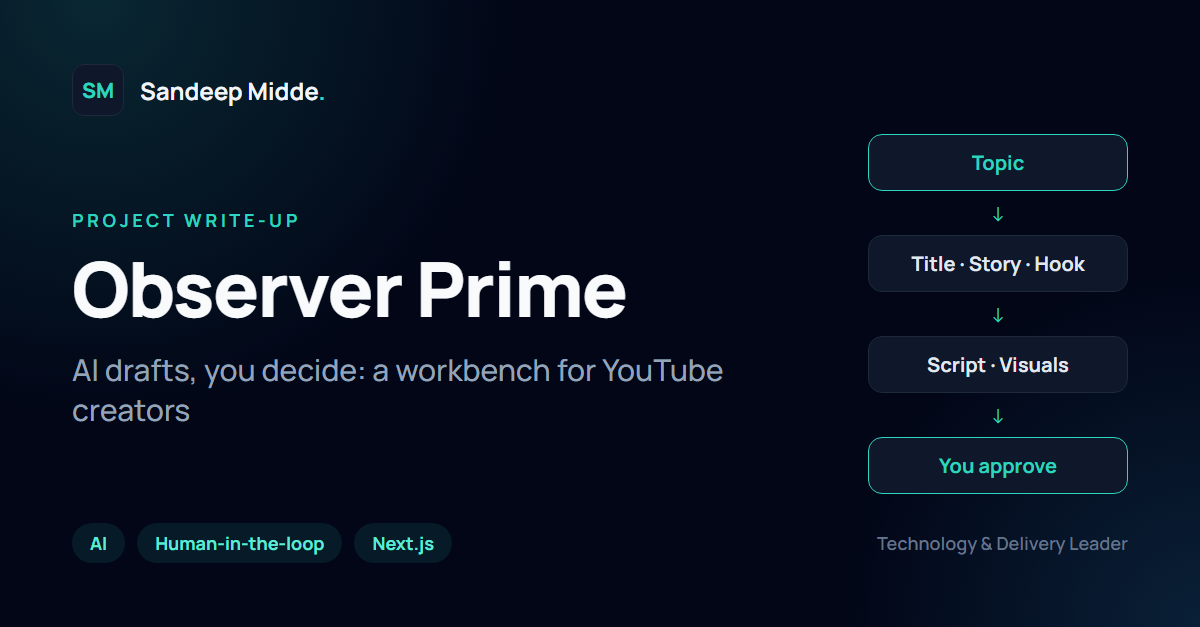
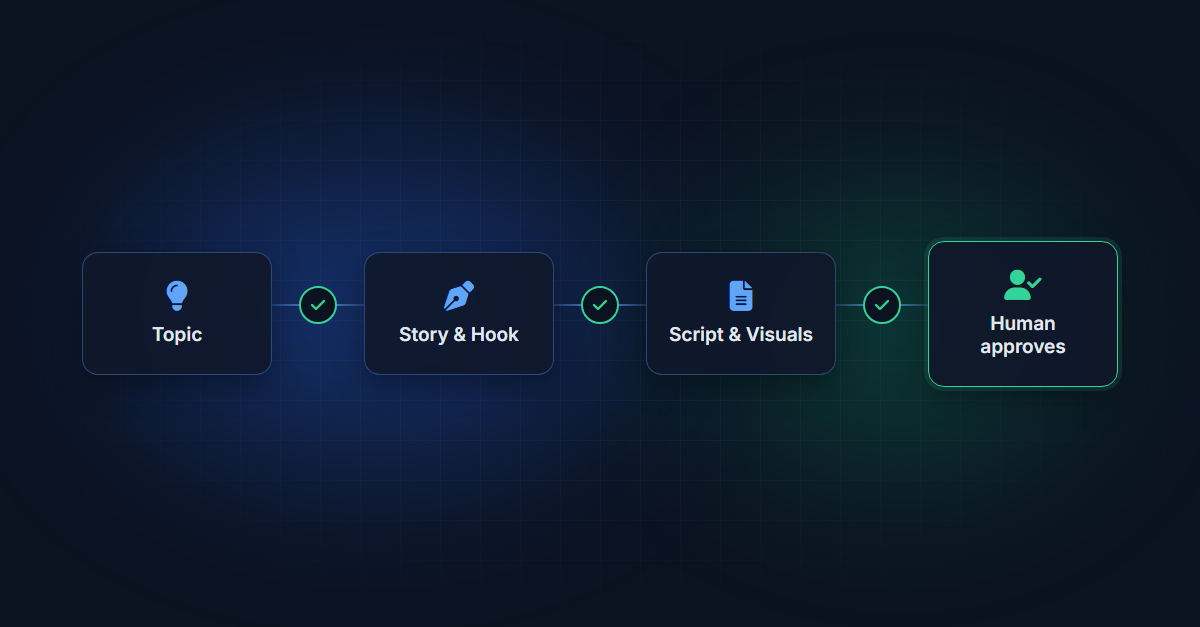
Homepage: executive hero and career language, Principal AI Architect chapter, stack chips, text-free project covers
Covers are now visual-only (no name, byline or tags) so the card text
does the reading. Also used as each post's link-preview image.

diff --git a/themed-executive.html b/themed-executive.html
@@ -787,7 +787,7 @@
             Two decades leading technology and delivery for mission-critical finance platforms, from enterprise ERP programs for global clients to governing a <strong>$2.5T+ AUM</strong> financial ecosystem in regulated banking.
           </p>
           <p class="hero-sub">
-            The focus stays constant. Align architecture, budgets, and cross-functional teams to protect uptime and cut total cost of ownership, and now bring the same rigor to hands-on, evaluation-backed GenAI product architecture.
+            Specializing in enterprise platform modernization and resilient GenAI architecture, aligning architecture, budgets and cross-functional teams to protect uptime and cut total cost of ownership.
           </p>
           <div class="hero-actions">
             <a href="#impact" class="btn btn-primary">Review portfolio <i class="fas fa-arrow-down" aria-hidden="true"></i></a>
@@ -946,12 +946,13 @@
         <a class="proj-card anim" href="posts/krishna-uvaca/">
           <div class="proj-cover"><img src="blog/krishna-uvaca/cover.png" alt="Krishna Uvaca cover" loading="lazy" width="1200" height="627"></div>
           <div class="proj-body">
-            <p class="proj-kind">Live RAG application</p>
+            <p class="proj-kind">Live RAG sandbox</p>
             <h3>Krishna Uvaca</h3>
-            <p>Conversational RAG application that answers only from retrieved source text, cites the verse behind every answer and keeps context across the conversation. Built to test how far strict grounding can contain hallucination where accuracy matters.</p>
+            <p>A live validation sandbox for grounded, multi-turn retrieval. It benchmarks how far strict context grounding and source citation can contain hallucination on dense, high-complexity text, with memory carried across turns.</p>
             <p class="proj-proof"><i class="fas fa-check" aria-hidden="true"></i> Verse-level citations on every answer</p>
             <p class="proj-proof"><i class="fas fa-check" aria-hidden="true"></i> 88% accuracy across 500 test conversations</p>
-            <span class="proj-link">Read the case study <i class="fas fa-arrow-right" aria-hidden="true"></i></span>
+            <div class="proj-stack"><span>Dify</span><span>Make.com</span><span>Airtable</span><span>Softr</span><span>FastAPI</span></div>
+            <span class="proj-link">Explore the architecture <i class="fas fa-arrow-right" aria-hidden="true"></i></span>
           </div>
         </a>
         <a class="proj-card anim" href="posts/observer-prime/">
@@ -962,8 +963,8 @@
             <p>Agentic workflow engine with provider-agnostic LLM orchestration and resumable, versioned steps. A human-in-the-loop approval gate sits between every stage, so the AI drafts and a person decides.</p>
             <p class="proj-proof"><i class="fas fa-check" aria-hidden="true"></i> Central orchestrator owns every workflow rule</p>
             <p class="proj-proof"><i class="fas fa-check" aria-hidden="true"></i> 36 automated tests on a zero-cost mock provider</p>
-            <div class="proj-stack"><span>Next.js 15</span><span>React 19</span><span>TypeScript</span><span>Vitest</span></div>
-            <span class="proj-link">Read the case study <i class="fas fa-arrow-right" aria-hidden="true"></i></span>
+            <div class="proj-stack"><span>Claude Code</span><span>Next.js 15</span><span>React 19</span><span>TypeScript</span><span>Vitest</span></div>
+            <span class="proj-link">Explore the architecture <i class="fas fa-arrow-right" aria-hidden="true"></i></span>
           </div>
         </a>
         <a class="proj-card anim" href="posts/project-elara/">
@@ -974,8 +975,8 @@
             <p>Knowledge platform that turns unstructured files in a user's own Google Drive into structured, searchable knowledge. A two-tier design uses AI only where understanding is needed and plain code for retrieval, keeping cost predictable.</p>
             <p class="proj-proof"><i class="fas fa-check" aria-hidden="true"></i> No vector database or agent framework needed</p>
             <p class="proj-proof"><i class="fas fa-check" aria-hidden="true"></i> Verified with real sign-in and live AI calls</p>
-            <div class="proj-stack"><span>Next.js 16</span><span>TypeScript</span><span>Google Drive API</span></div>
-            <span class="proj-link">Read the case study <i class="fas fa-arrow-right" aria-hidden="true"></i></span>
+            <div class="proj-stack"><span>Claude Code</span><span>Next.js 16</span><span>TypeScript</span><span>Google Drive API</span></div>
+            <span class="proj-link">Explore the architecture <i class="fas fa-arrow-right" aria-hidden="true"></i></span>
           </div>
         </a>
       </div>
@@ -1020,25 +1021,25 @@
       <div class="section-header">
         <p class="section-label">Career</p>
         <h2 class="section-title">Two decades of<br><em>compounding</em> depth.</h2>
-        <p class="section-sub">From PeopleSoft Finance consultant to VP of a $2.5T+ AUM finance platform to independent AI builder, each chapter built the judgment for the next.</p>
+        <p class="section-sub">From PeopleSoft Finance consultant to VP of a $2.5T+ AUM finance platform to independent AI architect, each chapter built the judgment for the next.</p>
       </div>
       <div class="exp-list">
         <article class="exp-item anim">
           <div class="exp-meta">
             <div class="exp-date">Jul 2026 to Present</div>
             <div class="exp-co">Independent</div>
-            <div class="exp-loc">AI / ML product development</div>
+            <div class="exp-loc">AI R&amp;D Lab</div>
           </div>
           <div class="exp-body">
-            <h3 class="exp-title">AI Technical Product Development</h3>
-            <p class="exp-summary">Designing and shipping GenAI products, agentic workflows, and low-code apps from idea to deployment.</p>
-            <div class="exp-pills"><span class="exp-pill">GenAI</span><span class="exp-pill">RAG</span><span class="exp-pill">Agentic AI</span></div>
+            <h3 class="exp-title">Principal AI Architect</h3>
+            <p class="exp-summary">Architecting GenAI systems end to end, from retrieval and agentic orchestration to evaluation, using AI-augmented engineering and composable low-code platforms.</p>
+            <div class="exp-pills"><span class="exp-pill">GenAI Architecture</span><span class="exp-pill">RAG</span><span class="exp-pill">Agentic AI</span><span class="exp-pill">AI-Augmented Engineering</span></div>
             <details class="exp-more">
               <summary>Key highlights (3)</summary>
               <ul class="exp-bullets">
-              <li>Architected and built <strong>Krishna Uvaca</strong>, an end-to-end RAG conversational AI platform with context-aware retrieval, grounded generation, and multi-turn memory, reaching <strong>88% accuracy</strong> over 500 test conversations</li>
-              <li>Designed and delivered <strong>ObserverPrime</strong>, an agentic workflow system orchestrating multi-stage content pipelines with provider-agnostic LLMs, background jobs, resumable execution, and automated tests</li>
-              <li>Led AI strategy and architecture for <strong>Elara</strong>, a knowledge platform turning unstructured data into reusable knowledge through automated ingestion, extraction, and retrieval</li>
+              <li>Shipped <strong>Krishna Uvaca</strong>, a live validation sandbox for grounded, multi-turn retrieval where every answer cites its source, reaching <strong>88% accuracy</strong> over 500 evaluated conversations</li>
+              <li>Architected <strong>Observer Prime</strong>, a human-in-the-loop agentic workflow engine with provider-agnostic LLM orchestration, resumable execution and <strong>36</strong> automated tests</li>
+              <li>Architected <strong>Elara</strong>, a two-tier knowledge platform that uses AI only where understanding is needed and deterministic code for retrieval, keeping inference cost predictable</li>
               </ul>
             </details>
           </div>
@@ -1057,15 +1058,15 @@
             <details class="exp-more">
               <summary>Key highlights (9)</summary>
               <ul class="exp-bullets">
-              <li>Set <strong>architectural guardrails</strong> and target-state direction across finance-critical programs</li>
-              <li>Directed a retrieval-first <strong>RAG feasibility study</strong> with an evaluation harness and no-answer detection, giving leadership an evidence-based <strong>go/no-go</strong> before any production commitment</li>
-              <li>Built a Python computation layer over PeopleSoft with Kafka consumption, turning a <strong>3-hour</strong> async workflow into <strong>under 2 minutes</strong></li>
-              <li>Integrated <strong>Bloomberg BEAP</strong>, retiring a third-party intermediary and cutting response time <strong>99%</strong> on reusable architecture</li>
-              <li>Streamlined GL allocation feeding P&amp;L with checkpoint restart and adaptable rule skipping, making it <strong>58% faster</strong> (3.5h → 1.5h) across 2M+ rows a day</li>
-              <li>Standardized L2 support, cutting MTTR by <strong>30 to 60%</strong> and lifting availability from <strong>99.2% to 99.8%</strong></li>
-              <li>Restructured into module-aligned pods and standardized CI/CD for cloud readiness, moving releases from <strong>monthly to biweekly</strong> with <strong>20% fewer</strong> deployment incidents</li>
-              <li>Led a data-driven build-vs-buy strategy that secured CTO sponsorship and cut projected TCO from <strong>$4M to $1.2M</strong></li>
-              <li>Scaled DR from annual to <strong>every 6 months</strong> across 8 teams, with 3 to 5 hour execution, and architected <strong>COSO-aligned</strong> auditable data retention</li>
+              <li>Set <strong>architectural guardrails</strong> and target-state direction across finance-critical programs, consolidating overlapping vendor tools through Architecture Review Board evaluations</li>
+              <li>Directed a <strong>GenAI (RAG) feasibility evaluation</strong>, owning the architecture and evaluation harness so leadership had an evidence-based <strong>go/no-go</strong> before committing capital</li>
+              <li>Eliminated a <strong>3-hour</strong> ERP bottleneck by directing a Python computation layer with Kafka consumption, bringing the workflow to <strong>under 2 minutes</strong></li>
+              <li>Decommissioned a third-party intermediary by taking a direct <strong>Bloomberg BEAP</strong> integration from proof of concept to production, cutting rate-update latency by <strong>99%</strong></li>
+              <li>Re-architected the GL allocation run feeding P&amp;L, isolating month-end rules and adding checkpoint restart, cutting daily runtime <strong>58%</strong> (3.5h → 1.5h)</li>
+              <li>Instituted a dedicated L2 operating model, cutting MTTR by <strong>30 to 60%</strong> and lifting availability from <strong>99.2% to 99.8%</strong></li>
+              <li>Led the organizational redesign into module-aligned pods on standardized CI/CD, moving releases from <strong>monthly to biweekly</strong> with <strong>20% fewer</strong> deployment incidents</li>
+              <li>Won Finance CTO sponsorship for a build-versus-buy modernization strategy, cutting projected TCO from <strong>$4M to $1.2M</strong></li>
+              <li>Institutionalized disaster recovery <strong>every 6 months</strong> across 8 teams with a verified 3 to 5 hour recovery window, and architected <strong>COSO-aligned</strong> auditable data retention</li>
               </ul>
             </details>
           </div>
